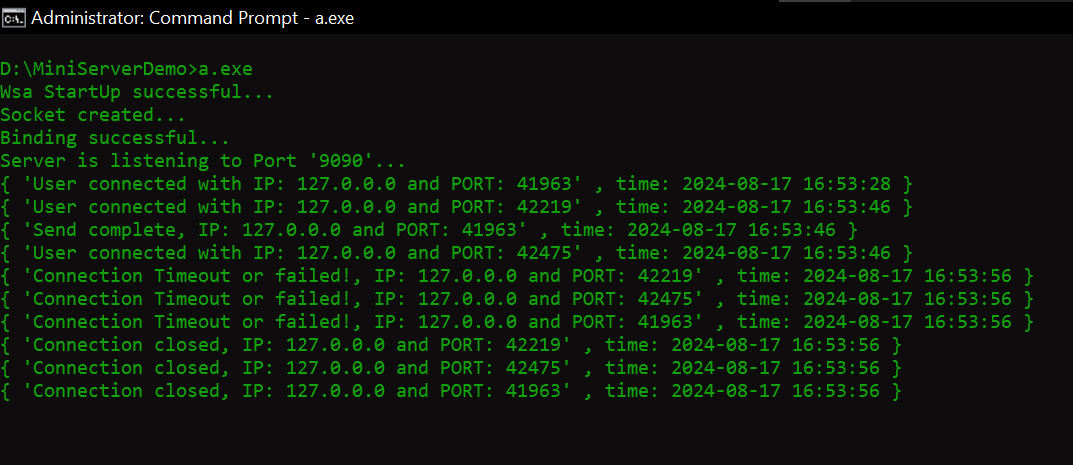
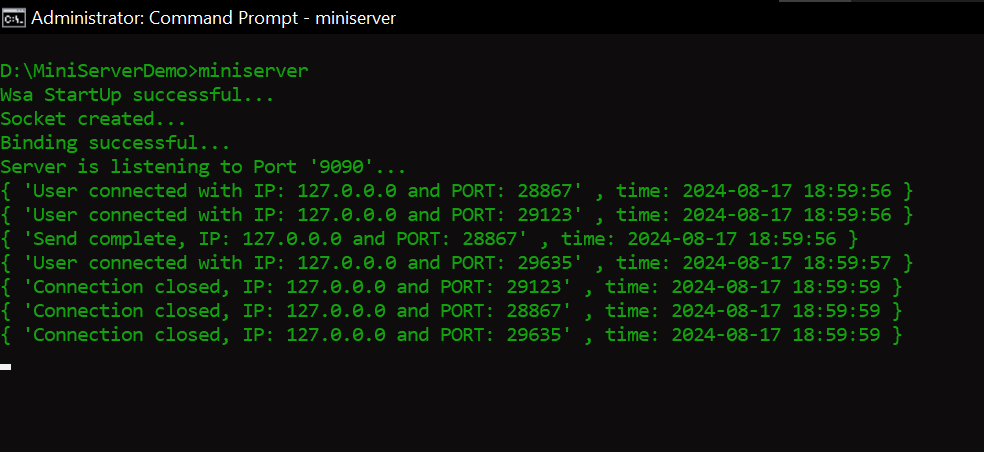
Library use documentation command update

Changed region(s): [[0.0, 0.1239, 0.9756, 0.8673], [0.0, 0.0, 0.3963, 0.0619], [0.7317, 0.0, 0.8537, 0.031]]

diff --git a/minitest.cpp b/minitest.cpp
@@ -1,0 +1,16 @@
+#include "miniserver.hpp"
+
+int main()
+{
+    HttpServer app;
+
+    app.routeGet["/"] = [](Request &req, Response &res) -> int
+    {
+        res.setContentType("text/html");
+        res.writeToBody("<h1>Hello from Server!<h1>");
+        return 0;
+    };
+
+    app.listen(9090);
+    return 0;
+}

diff --git a/Documentation/Library.md b/Documentation/Library.md
@@ -51,13 +51,13 @@ Now, to compile the program you must do these steps (You can use Make build tool
 Here's all the three steps in one command
 
 ```cmd
-g++ <your-program-name>.cpp -IMiniServer/include -LMiniServer/lib -lminiserver
+g++ -o miniserver <your-program-name>.cpp -IMiniServer/include -LMiniServer/lib -lminiserver
 ```
 
 If the compilation is successfull you can execute the program
 
 ```cmd
-a.exe
+miniserver
 ```
 
 And done now your server is listening to the port 9090 go to your browser or any tool and search `localhost:9090`
